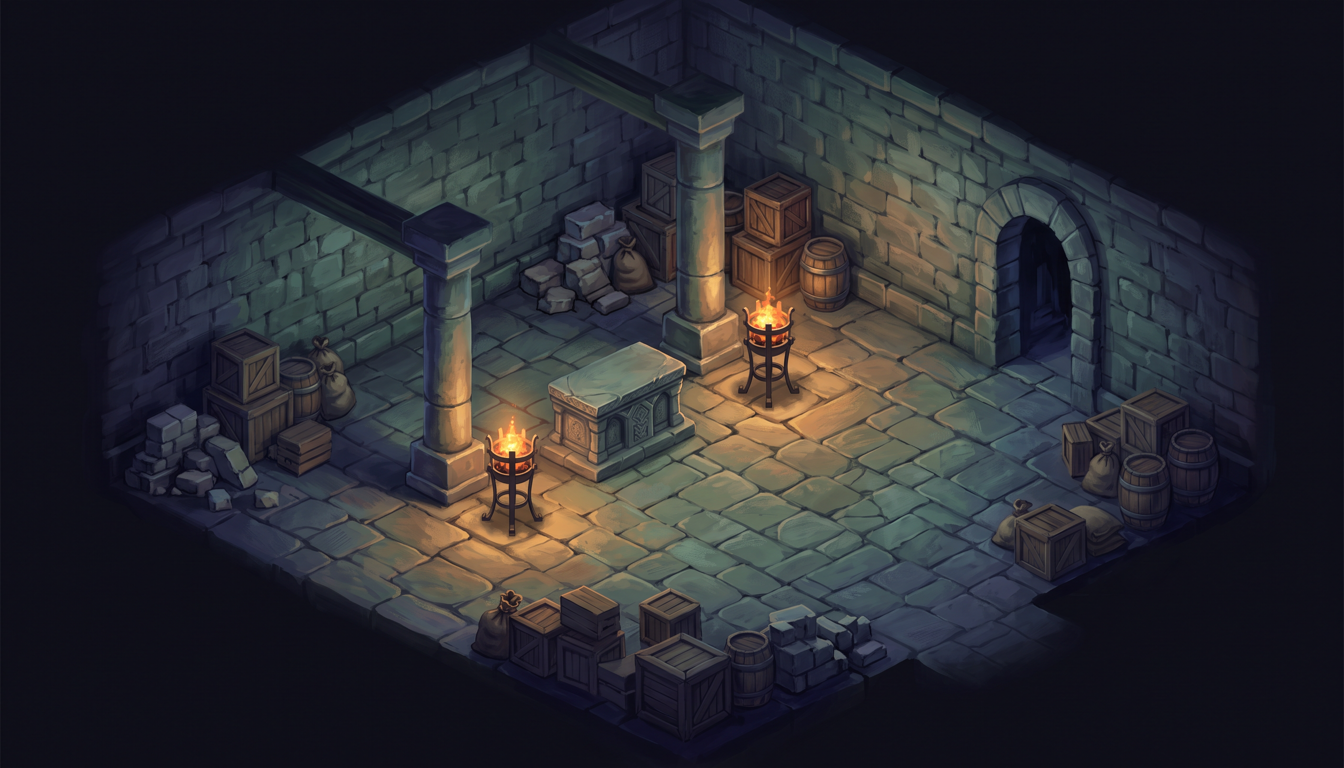
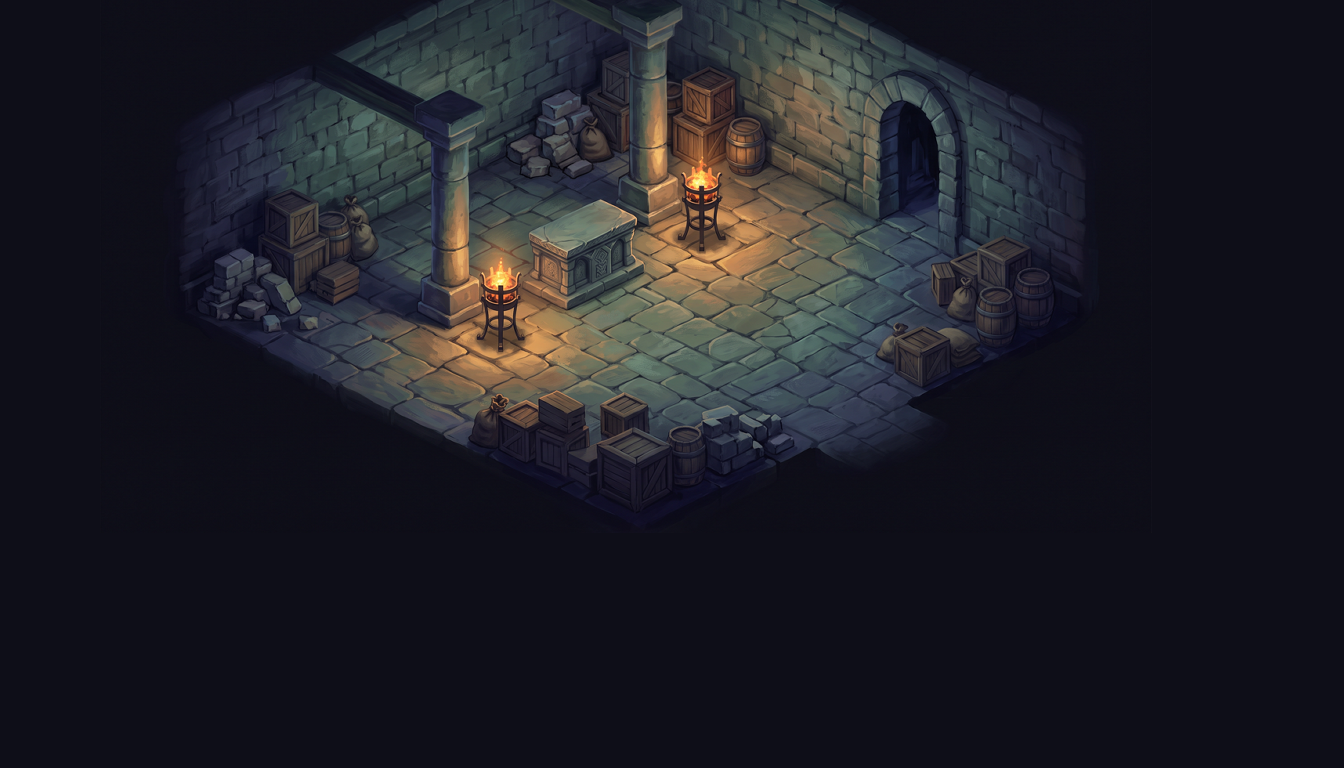
qa: deterministic plate re-registration (brazier-beacon affine solve) + hard registration gate (#1615)
The Gemini style pass globally rescales+translates painted room plates, so
collision geometry (projection-true at the stamped ortho) diverges from the
visible floor: the owner walks through painted props (dwing_room_0 measured
1.66-cell brazier error). qa/reregister_plate.py reuses overlay_boxes' brazier
blob-solve to fit the plate's true (fitted_ortho, screen_offset), derives the
corrective affine (scale s=fitted/stamped about screen center + translation),
applies it (PIL bicubic, border-median fill), and re-solves; exits non-zero
unless corrected max err_cells <= 0.35.

- Re-registered the two real dwing plates in place (0: 1.66->0.34, 1: 2.61->0.33).
- paint_room.py: promote the styled-recall warning to a HARD gate — with --boxes,
  a sub-0.60 recall triggers the same corrective warp and FAILS non-zero if still
  <0.60; without --boxes, warn-only (backward compatible).
- Tests: synthetic known-transform round-trip, real dwing_room_0 <=0.35, and
  overlay_boxes --solve CLI shape unchanged (importorskip PIL/numpy, offline).

Builds on the town-wing-rooms PR artifacts.

diff --git a/qa/reregister_plate.py b/qa/reregister_plate.py
@@ -1,0 +1,145 @@
+#!/usr/bin/env python3
+"""reregister_plate.py — deterministic corrective warp for the Gemini style-pass plate drift.
+
+THE DEFECT (measured, production): the Gemini structure-lock style pass GLOBALLY RESCALES +
+TRANSLATES the painted room plate. The engine's collision geometry is projection-true at the plate's
+STAMPED ortho (boxes["ortho"]), so a >1-cell plate offset means the owner walks through painted props
+and collides with visually-open floor (owner-confirmed in playtest). Measured on dwing_room_0:
+fitted_ortho 8.24 vs stamped 10.52, screen_offset [58.8, 193.3] → 1.66-cell brazier error.
+
+THE FIX: the rooms carry BRAZIER props (bright fire bowls) — dress_focal guarantees 2+ per generated
+room, giving 2+ solvable registration beacons. qa/overlay_boxes.py::blob_solve already fits the plate's
+TRUE (fitted_ortho, screen_offset) from the fire blobs vs the projected bowl centers. From that fit we
+compute the exact affine (uniform scale about screen center + translation) that maps the painted content
+to where the STAMPED ortho projects it, apply it with PIL (bicubic), and RE-SOLVE to confirm the
+corrected plate lands in the shipped-registration class (max err_cells <= 0.35).
+
+── PROJECTION MATH (derivation) ──────────────────────────────────────────────────────────────────────
+greybox_render_headless.world_to_screen projects a world point, relative to the screen center, as a pure
+1/ortho scaling of a fixed camera-basis quantity (the _POS camera offset is perpendicular to the view
+right/up axes, so it cancels — see _camera_ru):
+
+    sx - W/2 = P / ortho          sy - H/2 = Q / ortho       (P, Q depend only on the world point)
+
+blob_solve reports, for the painted plate, the (fitted_ortho, screen_offset=[dx, dy]) such that a fire
+blob sits at  blob = project(bowl, fitted_ortho) + [dx, dy]  (dx = mean(blob - proj), dy likewise). The
+engine renders/collides the SAME bowl at  target = project(bowl, stamped_ortho)  with NO offset. Writing
+both relative to center and eliminating (P, Q):
+
+    X_cur - dx = P / fitted_ortho ,  X_tgt = P / stamped_ortho
+    ⇒ X_tgt = (fitted_ortho / stamped_ortho) · (X_cur - dx)
+
+So with the SCALE  s = fitted_ortho / stamped_ortho  the forward map (current plate px → corrected px) is
+
+    corrected = s · current + t ,   t_x = (1-s)·W/2 - s·dx ,   t_y = (1-s)·H/2 - s·dy
+
+i.e. scale by s about the screen center, then translate to undo the fitted offset. The sign is VERIFIED
+empirically against the real dwing_room_0 plate: s = fitted/stamped (0.783) drives the re-solve to
+fitted≈stamped (10.84≈10.52) and offset≈0 (registered); the inverse leaves fitted at 7.52 with a large
+residual offset (its lower nearest-blob err is a coincidence of the fire-ember spread, NOT registration).
+
+PIL's Image.transform(AFFINE) wants the INVERSE map (corrected px → source px):
+    src = (1/s)·corrected - t/s  ⇒  coeffs (a,b,c,d,e,f) = (1/s, 0, -t_x/s, 0, 1/s, -t_y/s)
+
+Revealed borders (s<1 shrinks the content) are filled with the plate's median EDGE color so the 1344x768
+frame stays intact and the seam is invisible.
+
+Usage:
+  python3 qa/reregister_plate.py <boxes.json> <plate.png> --out <corrected.png>
+Exit code is non-zero unless the corrected max err_cells <= 0.35 (the shipped-registration class).
+"""
+from __future__ import annotations
+
+import argparse
+import json
+import sys
+from pathlib import Path
+
+sys.path.insert(0, str(Path(__file__).resolve().parent))
+from overlay_boxes import blob_solve  # noqa: E402  (reuse the brazier blob-solve machinery, not a copy)
+
+W, H = 1344, 768
+PASS_ERR_CELLS = 0.35  # the shipped-registration class
+_EDGE_STRIP = 8        # border-strip width sampled for the fill color
+
+
+def _max_err_cells(solve: dict) -> float:
+    return max((p["err_cells"] for p in solve.get("per_bowl_at_stamp", [])), default=float("inf"))
+
+
+def _border_median(img) -> tuple:
+    """Median RGB of the plate's outer edge strip — the fill for borders revealed by the shrink warp,
+    so the re-framed 1344x768 plate has no black/void seam."""
+    import numpy as np
+
+    a = np.asarray(img.convert("RGB"))
+    b = _EDGE_STRIP
+    edge = np.concatenate([a[:b].reshape(-1, 3), a[-b:].reshape(-1, 3),
+                           a[:, :b].reshape(-1, 3), a[:, -b:].reshape(-1, 3)])
+    return tuple(int(np.median(edge[:, i])) for i in range(3))
+
+
+def corrective_transform(solve: dict) -> dict:
+    """From a blob_solve result compute the affine that maps the painted content to the stamped-ortho
+    projection. Returns the forward scale/translate plus the PIL-inverse coefficients (a,b,c,d,e,f)."""
+    fitted = float(solve["fitted_ortho"])
+    stamped = float(solve["stamped_ortho"])
+    dx, dy = solve["screen_offset"]
+    s = fitted / stamped
+    tx = (1.0 - s) * W / 2.0 - s * dx
+    ty = (1.0 - s) * H / 2.0 - s * dy
+    # PIL AFFINE is the inverse map (output px -> source px): src = (1/s)*out - t/s
+    inv = (1.0 / s, 0.0, -tx / s, 0.0, 1.0 / s, -ty / s)
+    return {"scale": s, "translate": [tx, ty], "pil_affine_inverse": inv}
+
+
+def reregister(boxes: dict, plate_path: Path, out_path: Path) -> dict:
+    """Solve → warp → re-solve. Writes the corrected plate to out_path and returns a report with
+    before/after {fitted_ortho, screen_offset, max_err_cells}, the transform, and a `passed` flag
+    (corrected max err_cells <= 0.35). If the brazier signal is insufficient, returns {"error": ...}
+    with passed=False and does NOT write out_path."""
+    from PIL import Image
+
+    before = blob_solve(boxes, Path(plate_path))
+    if "error" in before:
+        return {"error": before["error"], "passed": False, "before": before}
+
+    tf = corrective_transform(before)
+    img = Image.open(plate_path).convert("RGB")
+    fill = _border_median(img)
+    corrected = img.transform((W, H), Image.AFFINE, tf["pil_affine_inverse"],
+                              resample=Image.BICUBIC, fillcolor=fill)
+    Path(out_path).parent.mkdir(parents=True, exist_ok=True)
+    corrected.save(out_path)
+
+    after = blob_solve(boxes, Path(out_path))
+    return {
+        "passed": _max_err_cells(after) <= PASS_ERR_CELLS,
+        "scale": round(tf["scale"], 4),
+        "translate": [round(v, 1) for v in tf["translate"]],
+        "before": {"fitted_ortho": before["fitted_ortho"], "screen_offset": before["screen_offset"],
+                   "max_err_cells": round(_max_err_cells(before), 2)},
+        "after": {"fitted_ortho": after["fitted_ortho"], "screen_offset": after["screen_offset"],
+                  "max_err_cells": round(_max_err_cells(after), 2)},
+    }
+
+
+def main() -> int:
+    ap = argparse.ArgumentParser(description=__doc__, formatter_class=argparse.RawDescriptionHelpFormatter)
+    ap.add_argument("boxes", help="room_boxes.json sidecar (build_room_unified.cs output)")
+    ap.add_argument("image", help="styled plate PNG (1344x768) to re-register")
+    ap.add_argument("--out", required=True, help="write the corrected plate PNG here")
+    args = ap.parse_args()
+
+    boxes = json.loads(Path(args.boxes).read_text())
+    rep = reregister(boxes, Path(args.image), Path(args.out))
+    print(json.dumps(rep, indent=1))
+    if not rep.get("passed"):
+        print(f"[reregister_plate] FAILED: corrected max err_cells > {PASS_ERR_CELLS}", file=sys.stderr)
+        return 1
+    print(f"[reregister_plate] OK: {args.out}", file=sys.stderr)
+    return 0
+
+
+if __name__ == "__main__":
+    raise SystemExit(main())

diff --git a/qa/test_reregister_plate.py b/qa/test_reregister_plate.py
@@ -1,0 +1,120 @@
+#!/usr/bin/env python3
+"""Offline tests for the deterministic plate re-registration (qa/reregister_plate.py).
+
+Three guards:
+  (a) synthetic round-trip — a "correct" plate (fire blobs at the stamped-ortho brazier projections)
+      is drifted by a KNOWN scale+translate (the Gemini-pass signature), and the solver+warp is shown
+      to recover it back inside the shipped-registration class.
+  (b) the real dwing_room_0 plate in the worktree re-registers to <= 0.35 err_cells.
+  (c) overlay_boxes.py --solve CLI output shape is unchanged after the refactor.
+
+No network, no randomness. PIL/numpy-gated via importorskip.
+"""
+from __future__ import annotations
+
+import json
+import subprocess
+import sys
+from pathlib import Path
+
+import pytest
+
+QA = Path(__file__).resolve().parent
+REPO = QA.parent
+sys.path.insert(0, str(QA))
+
+BOXES0 = REPO / "extensions/renderers/unity/boxes/dwing_room_0_v1_boxes.json"
+PLATE0 = REPO / "extensions/renderers/unity/plates/dwing_room_0_v1_registered.png"
+
+W, H = 1344, 768
+_STAMPED = 11.0
+# Two brazier stacks (y=0.85 + y=1.85) at two distinct (x,z) footprints — dress_focal's beacon shape.
+_SYN_BOXES = {
+    "version": "test", "ortho": _STAMPED, "cols": 20, "rows": 20,
+    "boxes": [
+        {"name": "brazier_a0", "kind": "brazier", "center": [-3.0, 0.85, 4.0], "size": [0.8, 0.85, 0.8]},
+        {"name": "brazier_a1", "kind": "brazier", "center": [-3.0, 1.85, 4.0], "size": [0.8, 0.85, 0.8]},
+        {"name": "brazier_b0", "kind": "brazier", "center": [5.0, 0.85, 4.0], "size": [0.8, 0.85, 0.8]},
+        {"name": "brazier_b1", "kind": "brazier", "center": [5.0, 1.85, 4.0], "size": [0.8, 0.85, 0.8]},
+    ],
+}
+
+
+def _max_err(solve: dict) -> float:
+    return max(p["err_cells"] for p in solve["per_bowl_at_stamp"])
+
+
+def test_synthetic_round_trip(tmp_path):
+    """Scale+offset a synthetic correct plate by a known transform; solver+warp recovers it."""
+    pytest.importorskip("numpy")
+    pytest.importorskip("PIL")
+    from PIL import Image, ImageDraw
+
+    import greybox_render_headless as G
+    from overlay_boxes import blob_solve
+    from reregister_plate import reregister
+
+    # bowls = max-y box per (x,z) group — where blob_solve measures err (world_to_screen at y+0.5).
+    bowls = [(-3.0, 1.85, 4.0), (5.0, 1.85, 4.0)]
+
+    def _draw(positions, path):
+        im = Image.new("RGB", (W, H), (13, 13, 18))
+        d = ImageDraw.Draw(im)
+        for (px, py) in positions:
+            d.ellipse([px - 11, py - 11, px + 11, py + 11], fill=(255, 160, 40))  # warm blob (mask-hit)
+        im.save(path)
+
+    # "Correct" plate: fire exactly at the stamped-ortho projection of each bowl.
+    correct_pos = [G.world_to_screen(x, y + 0.5, z, ortho_size=_STAMPED) for (x, y, z) in bowls]
+    correct = tmp_path / "correct.png"
+    _draw(correct_pos, correct)
+    assert _max_err(blob_solve(_SYN_BOXES, correct)) <= 0.35  # sanity: the correct plate is registered
+
+    # Drift it by a KNOWN forward transform k*(p-center)+center + offset (the Gemini rescale+shift).
+    k, ox, oy = 1.25, 40.0, -90.0
+    drift_pos = [(k * (px - W / 2) + W / 2 + ox, k * (py - H / 2) + H / 2 + oy) for (px, py) in correct_pos]
+    drifted = tmp_path / "drifted.png"
+    _draw(drift_pos, drifted)
+    assert _max_err(blob_solve(_SYN_BOXES, drifted)) > 0.35  # the drift is a real, detectable misregistration
+
+    out = tmp_path / "recovered.png"
+    rep = reregister(_SYN_BOXES, drifted, out)
+    assert rep["passed"], rep
+    assert rep["after"]["max_err_cells"] <= 0.35
+    assert rep["after"]["max_err_cells"] < rep["before"]["max_err_cells"]
+    assert out.is_file()
+
+
+@pytest.mark.skipif(not (BOXES0.is_file() and PLATE0.is_file()), reason="dwing_room_0 artifacts absent")
+def test_real_dwing_room_0_registers(tmp_path):
+    """The real dwing_room_0 plate in the worktree re-registers to <= 0.35 err_cells."""
+    pytest.importorskip("numpy")
+    pytest.importorskip("PIL")
+    from reregister_plate import reregister
+
+    boxes = json.loads(BOXES0.read_text())
+    out = tmp_path / "dwing0_corrected.png"
+    rep = reregister(boxes, PLATE0, out)
+    assert rep["passed"], rep
+    assert rep["after"]["max_err_cells"] <= 0.35
+
+
+@pytest.mark.skipif(not (BOXES0.is_file() and PLATE0.is_file()), reason="dwing_room_0 artifacts absent")
+def test_overlay_boxes_solve_cli_shape():
+    """overlay_boxes.py --solve output shape is unchanged after the refactor."""
+    pytest.importorskip("numpy")
+    pytest.importorskip("PIL")
+    proc = subprocess.run(
+        [sys.executable, str(QA / "overlay_boxes.py"), str(BOXES0), str(PLATE0), "--solve"],
+        capture_output=True, text=True,
+    )
+    assert proc.returncode == 0, proc.stderr
+    out = json.loads(proc.stdout)
+    for key in ("residual_px", "fitted_ortho", "screen_offset", "stamped_ortho",
+                "n_blobs", "n_bowls", "per_bowl_at_stamp"):
+        assert key in out, f"missing key {key} in {out}"
+    assert isinstance(out["screen_offset"], list) and len(out["screen_offset"]) == 2
+    assert out["per_bowl_at_stamp"], "expected at least one per-bowl entry"
+    for entry in out["per_bowl_at_stamp"]:
+        for k in ("bowl_world", "err_px", "err_cells"):
+            assert k in entry, f"missing per-bowl key {k}"

diff --git a/qa/paint_room.py b/qa/paint_room.py
@@ -83,6 +83,11 @@ def main() -> int:
     ap.add_argument("--seeds", default=None,
                     help="comma-separated seed override (default: recipe seeds = 3-draw selection)")
     ap.add_argument("--skip-gemini", action="store_true", help="stop after the selected flux base")
+    ap.add_argument("--boxes", default=None,
+                    help="room_boxes.json sidecar for the depth room — enables the HARD registration "
+                         "gate: a styled recall < 0.60 triggers the brazier-beacon corrective warp "
+                         "(qa/reregister_plate.py) and, if still < 0.60 after correction, FAILS the "
+                         "run non-zero. Absent: warn-only (backward-compatible).")
     args = ap.parse_args()
 
     cls = RECIPES["classes"][args.room_class]
@@ -136,6 +141,7 @@ def main() -> int:
               "selection": table, "base": {"seed": winner["seed"], "asset": base_asset,
                                            "path": base_path}}
 
+    registration_failed = False
     if not args.skip_gemini:
         print("[paint_room] gemini structure-lock pass…")
         g = _gemini_pass(headers, cls, gem, base_asset, out_dir, f"{args.room_class}_styled")
@@ -158,10 +164,46 @@ def main() -> int:
                     f"styled recall {styled_recall} (base {base_recall}) — structure-lock likely "
                     "violated (invented/multiplied features); eyeball before panel")
                 print(f"[paint_room] ⚠ REGISTRATION WARNING: {result['styled']['registration_warning']}")
+
+            # HARD GATE: a sub-0.60 styled recall is the drift signature. If we have the boxes sidecar
+            # (brazier beacons), attempt the SAME deterministic corrective warp reregister_plate uses,
+            # re-measure recall against the depth, and adopt the corrected plate if it clears 0.60.
+            # Still < 0.60 after correction (or no --boxes to attempt it) => REGISTRATION FAILED (non-zero).
+            if styled_recall < 0.60:
+                if args.boxes:
+                    from reregister_plate import reregister  # noqa: E402  (deterministic beacon warp)
+                    boxes_sc = json.loads(Path(args.boxes).read_text())
+                    corrected_path = out_dir / f"{args.room_class}_final_1344_reregistered.png"
+                    rep = reregister(boxes_sc, final_path, corrected_path)
+                    corr = {"attempted": True, "path": str(corrected_path),
+                            "solve": {"before": rep.get("before"), "after": rep.get("after"),
+                                      "scale": rep.get("scale"), "translate": rep.get("translate")}}
+                    if "error" not in rep:
+                        corr_recall = round(registration_recall(str(depth_local), str(corrected_path)), 4)
+                        corr["recall_vs_depth"] = corr_recall
+                        if corr_recall >= 0.60:
+                            # adopt the corrected plate as the final output
+                            subprocess.run(["cp", str(corrected_path), str(final_path)], check=True)
+                            corr["adopted"] = True
+                            result["styled"]["recall_vs_depth"] = corr_recall
+                            print(f"[paint_room] corrective warp adopted: recall {styled_recall} -> {corr_recall}")
+                        else:
+                            registration_failed = True
+                    else:
+                        corr["error"] = rep["error"]
+                        registration_failed = True
+                    result["styled"]["corrected"] = corr
+                else:
+                    result["styled"]["corrected"] = {"attempted": False,
+                                                     "note": "no --boxes: warn-only (no hard gate)"}
         print(f"[paint_room] FINAL: {final_path}")
 
     (out_dir / "report.json").write_text(json.dumps(result, indent=1))
     print(f"[paint_room] report: {out_dir/'report.json'}")
+    if registration_failed:
+        print("[paint_room] ✖ REGISTRATION FAILED: styled recall < 0.60 after corrective warp "
+              f"(see {out_dir/'report.json'})", file=sys.stderr)
+        return 1
     return 0
 
 
